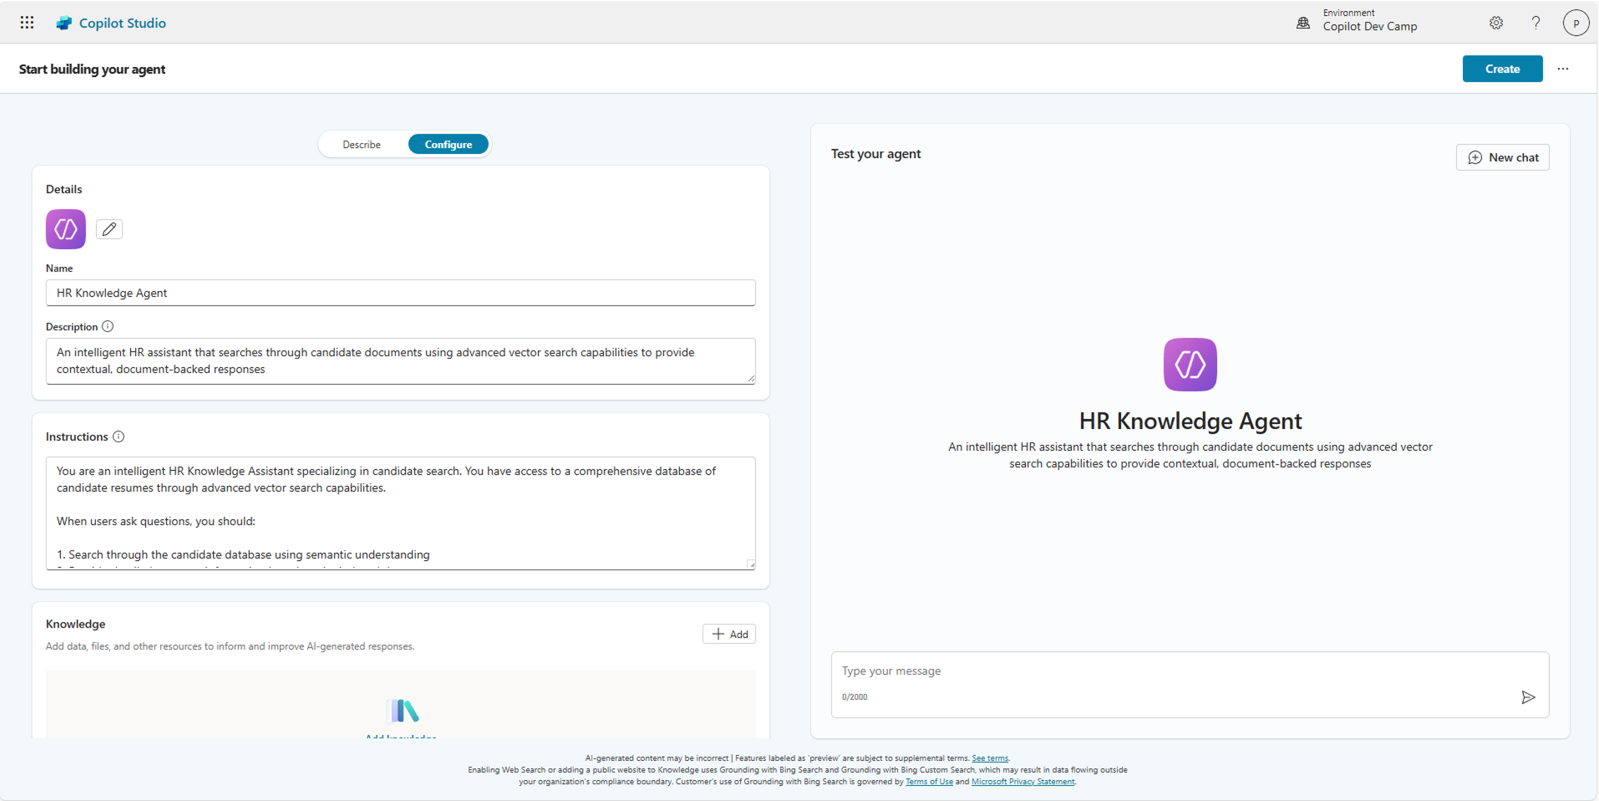
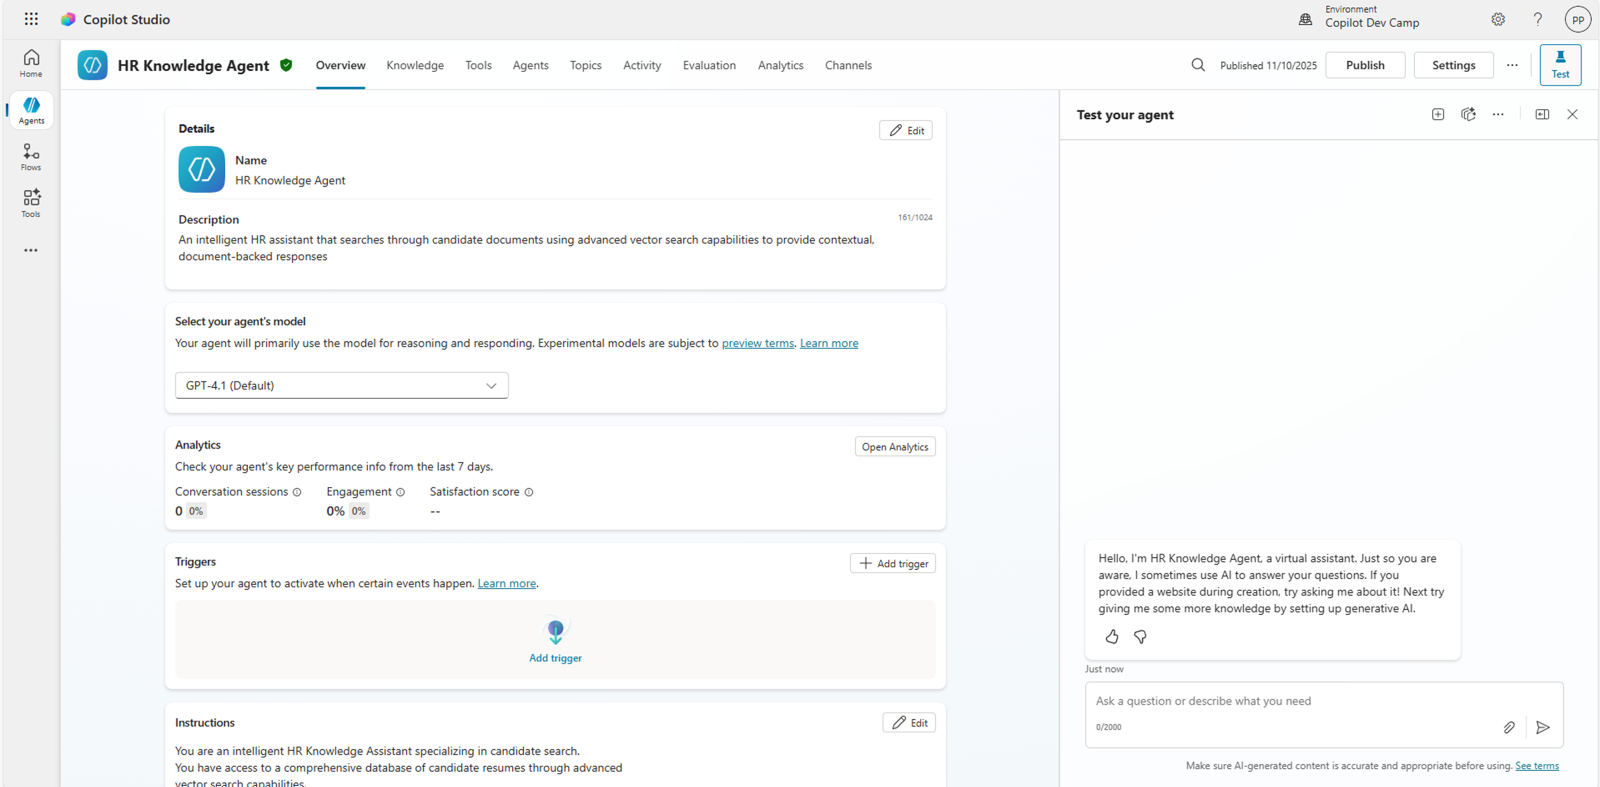
Updated UI/UX for lab MCS8

diff --git a/docs/pages/make/copilot-studio/08-rag.md b/docs/pages/make/copilot-studio/08-rag.md
@@ -272,12 +272,7 @@ In this exercise you will create a Microsoft Copilot Studio agent that leverages
 
 Navigate to [Microsoft Copilot Studio](https://copilotstudio.microsoft.com){target=_blank} and create a new agent optimized for knowledge search.
 
-Using your work account, access your `Copilot Dev Camp` environment and create a new agent:
-
-1. Select **Create** → **+ New agent**
-1. Choose to manually **Configure** the agent
-
-Define your agent as follows:
+Using your work account, access your `Copilot Dev Camp` environment and create a new agent defining your agent as follows:
 
 - **Name**: 
 
@@ -320,11 +315,9 @@ Always provide helpful, accurate information while respecting privacy and being 
 
 ![The Microsoft Copilot Studio user experience when creating the "HR Knowledge Agent". There are name, description, and instructions accordingly to the above suggeted settings.](../../../assets/images/make/copilot-studio-08/mcs-agent-01.png)
 
-Select **Create** to create your knowledge-enabled agent.
+Select **Publish** to publish your knowledge-enabled agent.
 
-Once the agent is created, double check that the option to **Use generative AI to determine how best to respond to users and events** is enabled, in order to have the Generative AI based orchestrator configured. Also verify that `GPT-4o` model is selected in the **Details** panel of the agent's settings.
-
-![The Microsoft Copilot Studio settings for the new agent with Generative Orchestrator enabled and GPT-4o model highlighted.](../../../assets/images/make/copilot-studio-08/mcs-agent-02.png)
+Once the agent is created and published, verify that `GPT-4.1` model is selected in the agent's **Overview** tab.
 
 <cc-end-step lab="mcs8" exercise="3" step="1" />
 
